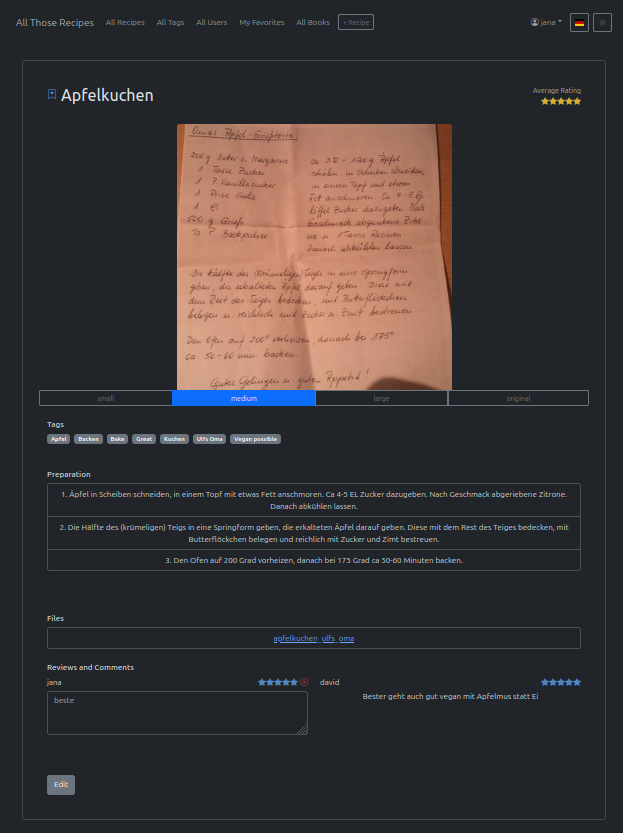
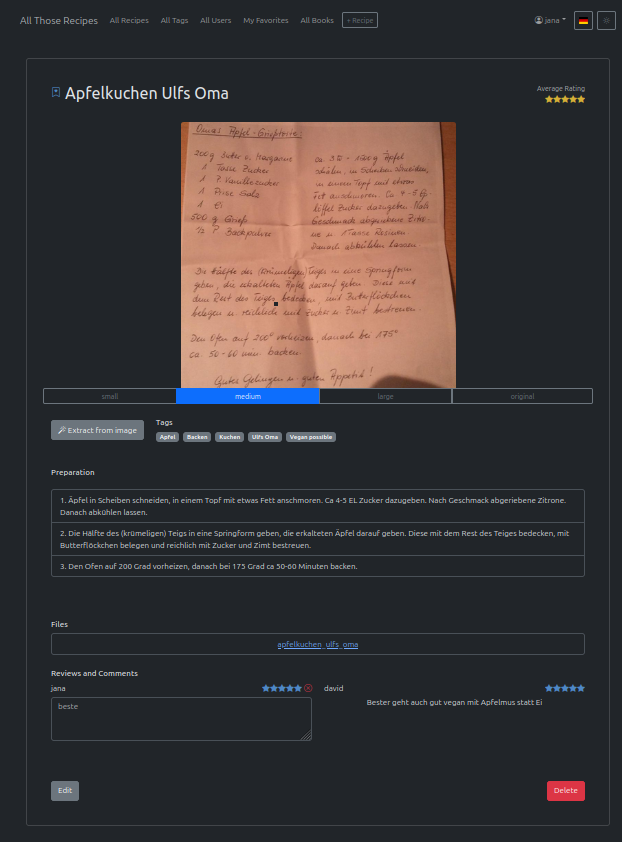
update readme

diff --git a/README.md b/README.md
@@ -12,6 +12,9 @@ Filter for tags or enter search queries
 See and edit all parts of a recipe
 ![recipe details](imgs/recipe.png)
 
+Fill ingredients and steps from the thumbnail with one button click
+![recipe extracted](imgs/recipe-extracted.png)
+
 ## All Tags
 Manage available tags, group them, and decide which should be clickable where in the recipe search
 ![tag overview](imgs/tags.png)
